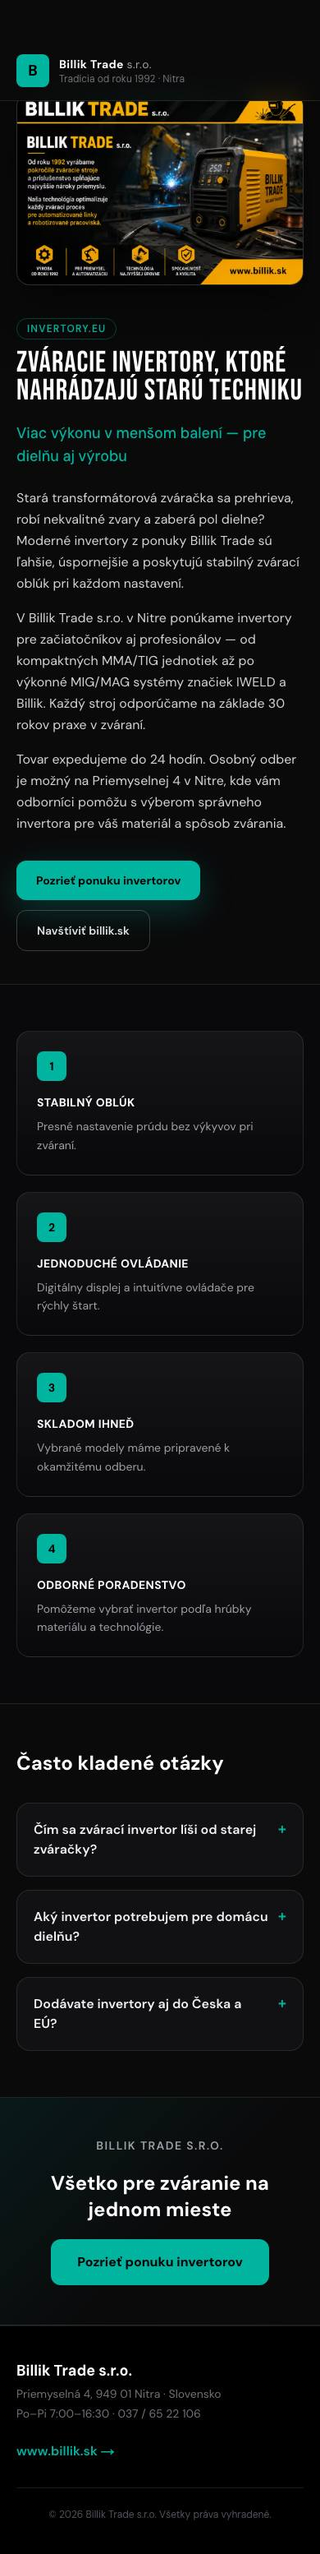
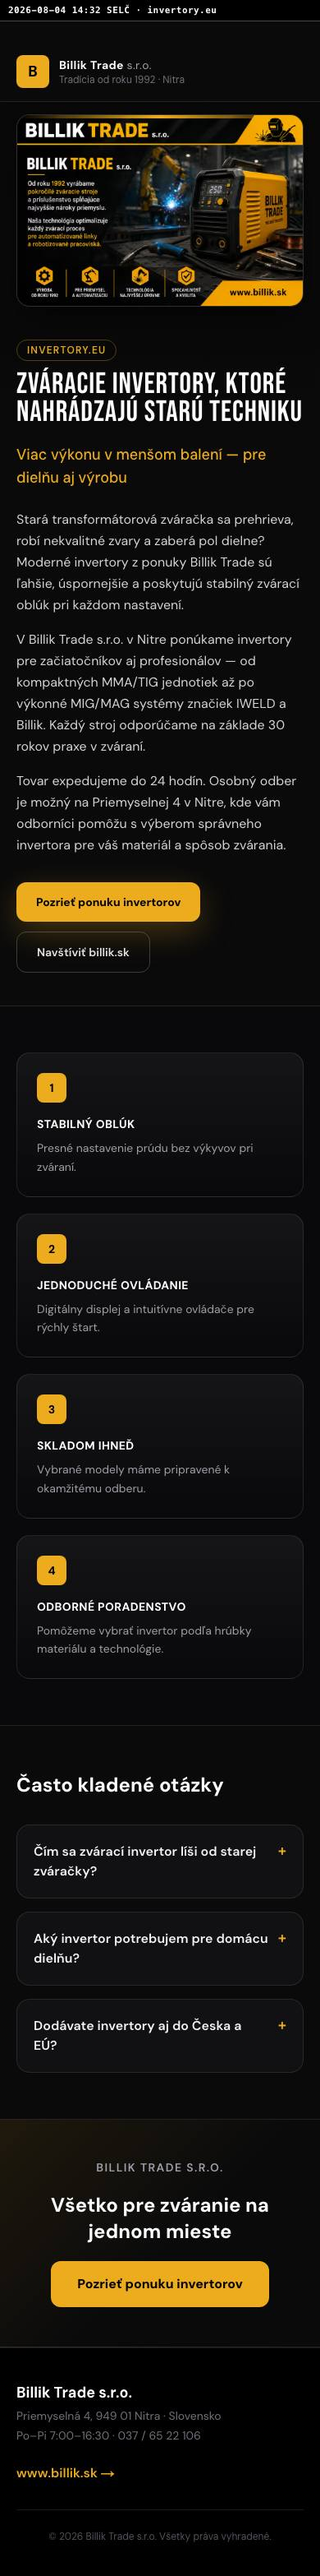
Stamp date and time into each screenshot
Format: 2026-08-04 14:32 SELC - billik.cz, in Europe/Bratislava since runners
are UTC. Injected as a strip in normal flow at the top of <body> rather than as
an overlay: every corner of these pages holds real content (logo left, phone
number right) and an overlay covered it. The site header is sticky, not fixed,
so it moves down by the strip's height instead of rendering over it.

Also fixes a false pass in wait-for-deploy. It only checked the hero asset, so
an accents-only run - which reuses the same image bytes - would report success
before the new colour had deployed at all. It now checks the rendered HTML for
both the hero filename and the accent, then byte-checks the asset.

diff --git a/screenshots/2026-08-04/index.md b/screenshots/2026-08-04/index.md
@@ -1,17 +1,19 @@
 # Screenshots 2026-08-04
 
-| Domain | Image | Desktop | Mobile |
-| --- | --- | --- | --- |
-| billik.cz | 41.webp | [desktop](billik.cz-desktop.jpg) | [mobile](billik.cz-mobile.jpg) |
-| billiktrade.eu | 11.webp | [desktop](billiktrade.eu-desktop.jpg) | [mobile](billiktrade.eu-mobile.jpg) |
-| billikwelding.eu | 3.webp | [desktop](billikwelding.eu-desktop.jpg) | [mobile](billikwelding.eu-mobile.jpg) |
-| billikwelding.sk | 45.webp | [desktop](billikwelding.sk-desktop.jpg) | [mobile](billikwelding.sk-mobile.jpg) |
-| invertory.eu | 25.webp | [desktop](invertory.eu-desktop.jpg) | [mobile](invertory.eu-mobile.jpg) |
-| lakovanie.eu | 23.webp | [desktop](lakovanie.eu-desktop.jpg) | [mobile](lakovanie.eu-mobile.jpg) |
-| praskovanie.eu | 9.webp | [desktop](praskovanie.eu-desktop.jpg) | [mobile](praskovanie.eu-mobile.jpg) |
-| servoglas.sk | 34.webp | [desktop](servoglas.sk-desktop.jpg) | [mobile](servoglas.sk-mobile.jpg) |
-| servore.eu | 17.webp | [desktop](servore.eu-desktop.jpg) | [mobile](servore.eu-mobile.jpg) |
-| zamocnickvyroba.eu | 1.webp | [desktop](zamocnickvyroba.eu-desktop.jpg) | [mobile](zamocnickvyroba.eu-mobile.jpg) |
-| zamocnickvyroba.sk | 2.webp | [desktop](zamocnickvyroba.sk-desktop.jpg) | [mobile](zamocnickvyroba.sk-mobile.jpg) |
-| zvaraciatechnika.eu | 51.webp | [desktop](zvaraciatechnika.eu-desktop.jpg) | [mobile](zvaraciatechnika.eu-mobile.jpg) |
-| zvaracky.eu | 20.webp | [desktop](zvaracky.eu-desktop.jpg) | [mobile](zvaracky.eu-mobile.jpg) |
+Captured 2026-08-04 14:32 SELČ.
+
+| Domain | Image | Accent | Desktop | Mobile |
+| --- | --- | --- | --- | --- |
+| billik.cz | 41.webp | #ed6b1d | [desktop](billik.cz-desktop.jpg) | [mobile](billik.cz-mobile.jpg) |
+| billiktrade.eu | 11.webp | #448ec5 | [desktop](billiktrade.eu-desktop.jpg) | [mobile](billiktrade.eu-mobile.jpg) |
+| billikwelding.eu | 3.webp | #4790c2 | [desktop](billikwelding.eu-desktop.jpg) | [mobile](billikwelding.eu-mobile.jpg) |
+| billikwelding.sk | 45.webp | #ed6c1d | [desktop](billikwelding.sk-desktop.jpg) | [mobile](billikwelding.sk-mobile.jpg) |
+| invertory.eu | 25.webp | #edac1d | [desktop](invertory.eu-desktop.jpg) | [mobile](invertory.eu-mobile.jpg) |
+| lakovanie.eu | 23.webp | #edaf1d | [desktop](lakovanie.eu-desktop.jpg) | [mobile](lakovanie.eu-mobile.jpg) |
+| praskovanie.eu | 9.webp | #478bc2 | [desktop](praskovanie.eu-desktop.jpg) | [mobile](praskovanie.eu-mobile.jpg) |
+| servoglas.sk | 34.webp | #1d7aed | [desktop](servoglas.sk-desktop.jpg) | [mobile](servoglas.sk-mobile.jpg) |
+| servore.eu | 17.webp | #1d78ed | [desktop](servore.eu-desktop.jpg) | [mobile](servore.eu-mobile.jpg) |
+| zamocnickvyroba.eu | 1.webp | #edb31d | [desktop](zamocnickvyroba.eu-desktop.jpg) | [mobile](zamocnickvyroba.eu-mobile.jpg) |
+| zamocnickvyroba.sk | 2.webp | #edb41d | [desktop](zamocnickvyroba.sk-desktop.jpg) | [mobile](zamocnickvyroba.sk-mobile.jpg) |
+| zvaraciatechnika.eu | 51.webp | #31d8cf | [desktop](zvaraciatechnika.eu-desktop.jpg) | [mobile](zvaraciatechnika.eu-mobile.jpg) |
+| zvaracky.eu | 20.webp | #38ced1 | [desktop](zvaracky.eu-desktop.jpg) | [mobile](zvaracky.eu-mobile.jpg) |

diff --git a/docs/superpowers/specs/2026-08-04-weekly-hero-rotation-design.md b/docs/superpowers/specs/2026-08-04-weekly-hero-rotation-design.md
@@ -94,7 +94,13 @@ in the same commit, so each folder holds exactly one image.
    public URLs.
 4. **Screenshot.** `scripts/screenshot-sites.mjs` drives Playwright Chromium over the 14 domains,
    writing `screenshots/<YYYY-MM-DD>/<domain>-desktop.jpg` and `-mobile.jpg` (JPEG quality 72,
-   full page), plus `index.md` recording which library image each domain received.
+   full page), plus `index.md` recording which library image and accent each domain received.
+
+   Each capture carries a burned-in stamp — `2026-08-10 06:14 SELČ · billik.cz` — formatted in
+   Europe/Bratislava, since the runner is UTC. It is injected as a strip in normal flow at the top
+   of `<body>` rather than as an overlay: every corner of these pages holds real content (logo
+   left, phone number right), and an overlay covered it. The site header is `sticky`, not `fixed`,
+   so it participates in flow and moves down by the strip's height instead of rendering over it.
 5. **Commit screenshots** with `[skip ci]` so Vercel does not rebuild for files the sites never
    serve.
 
